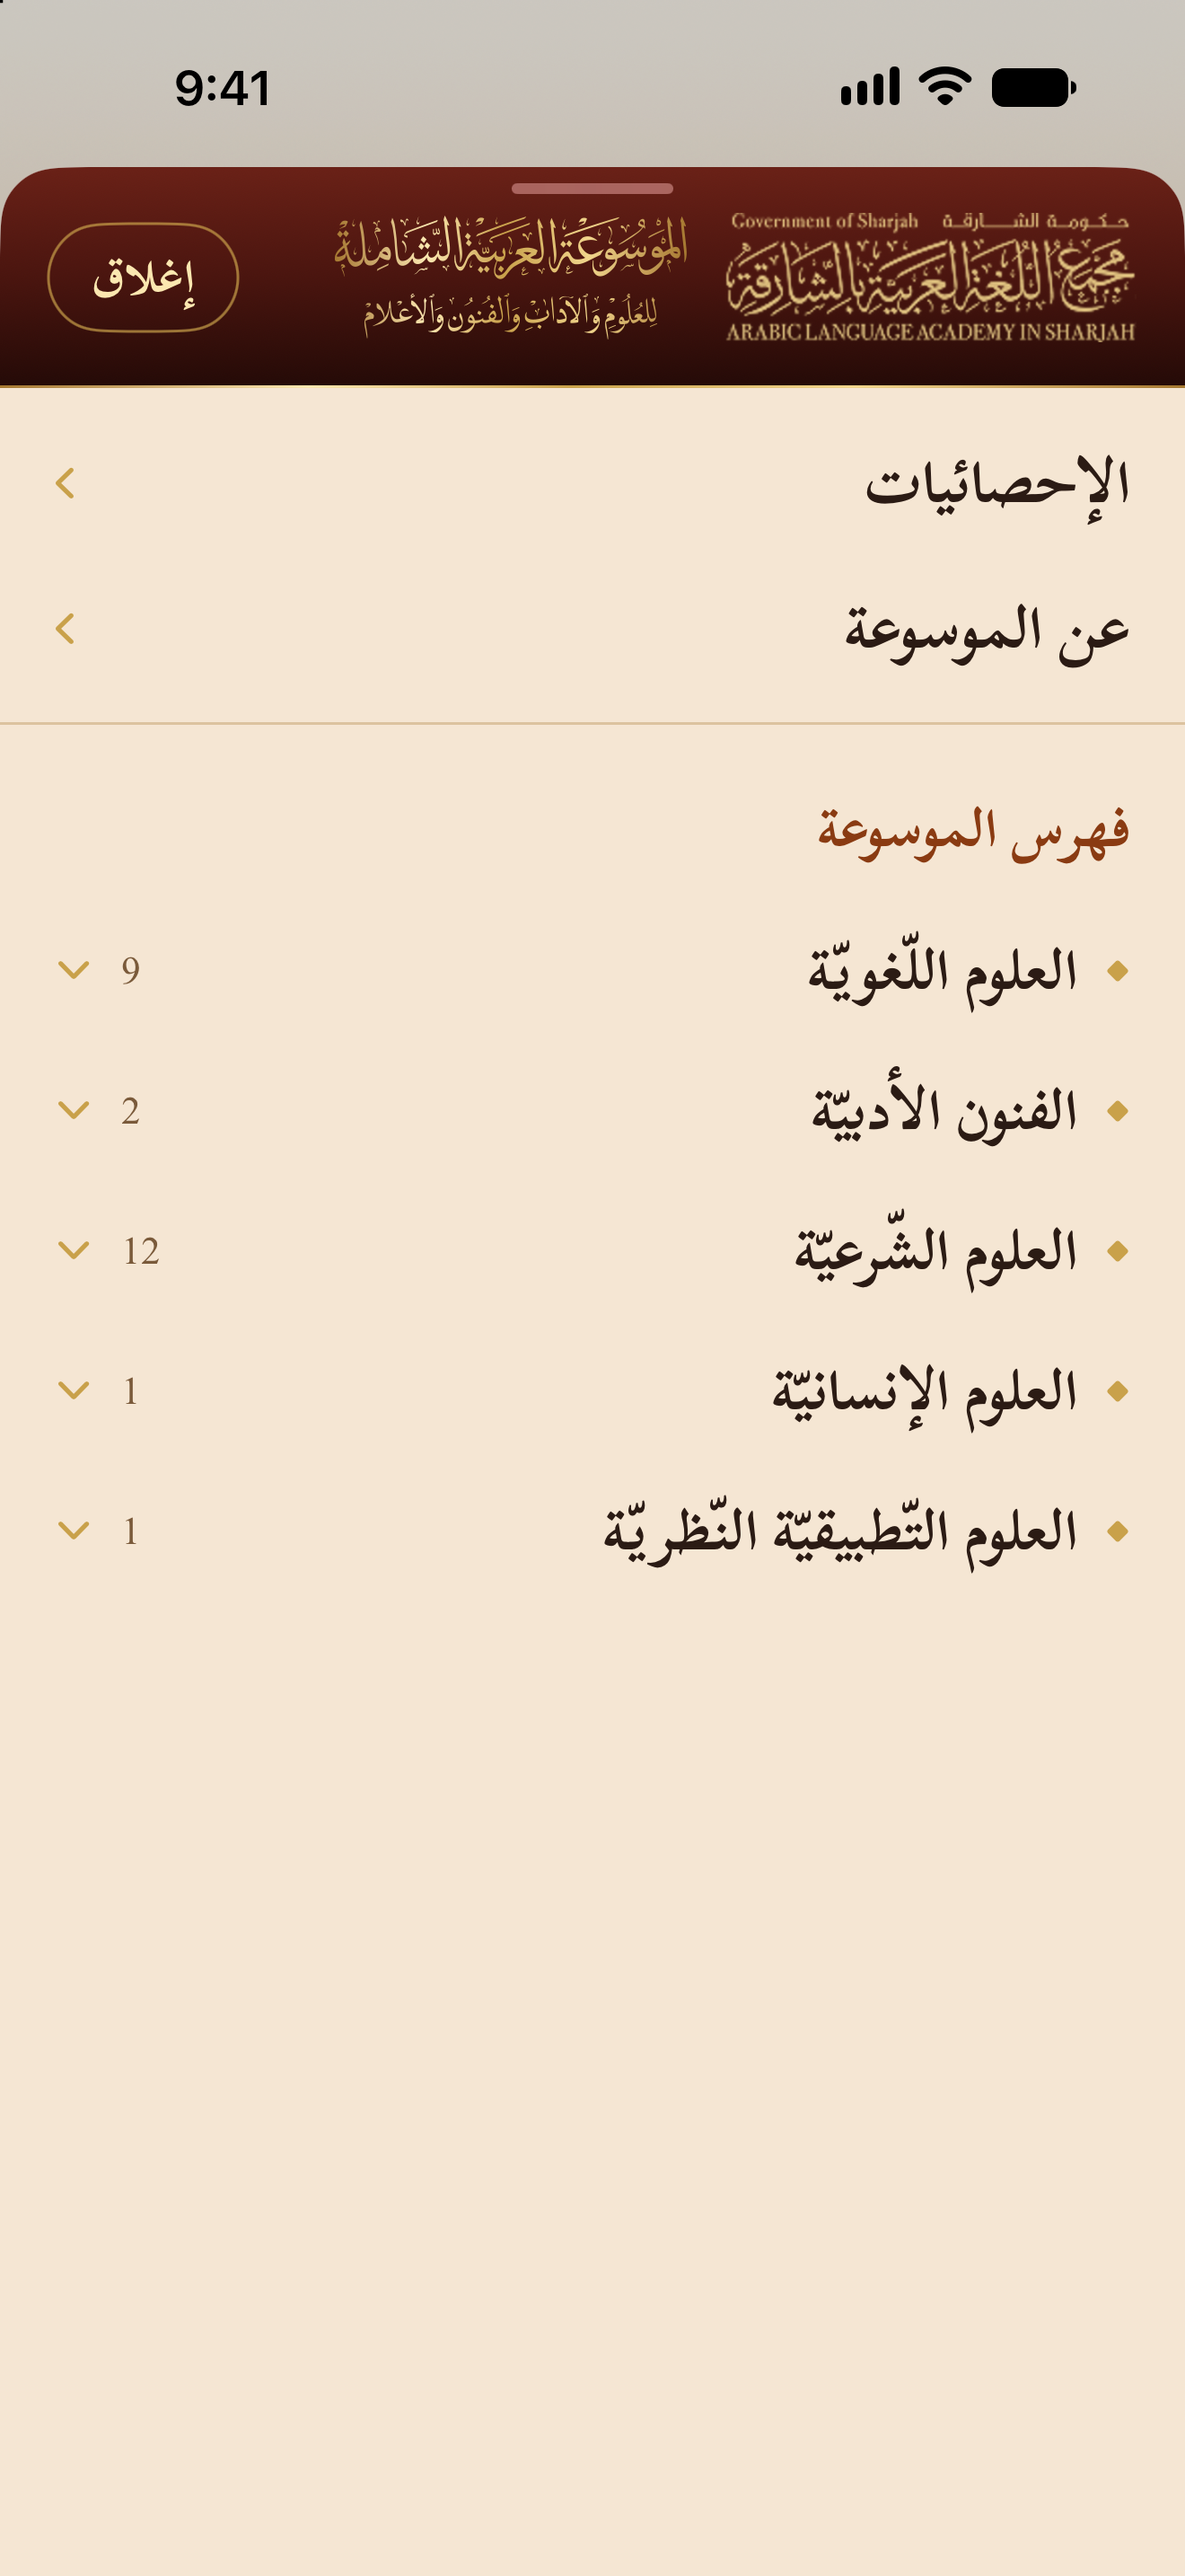
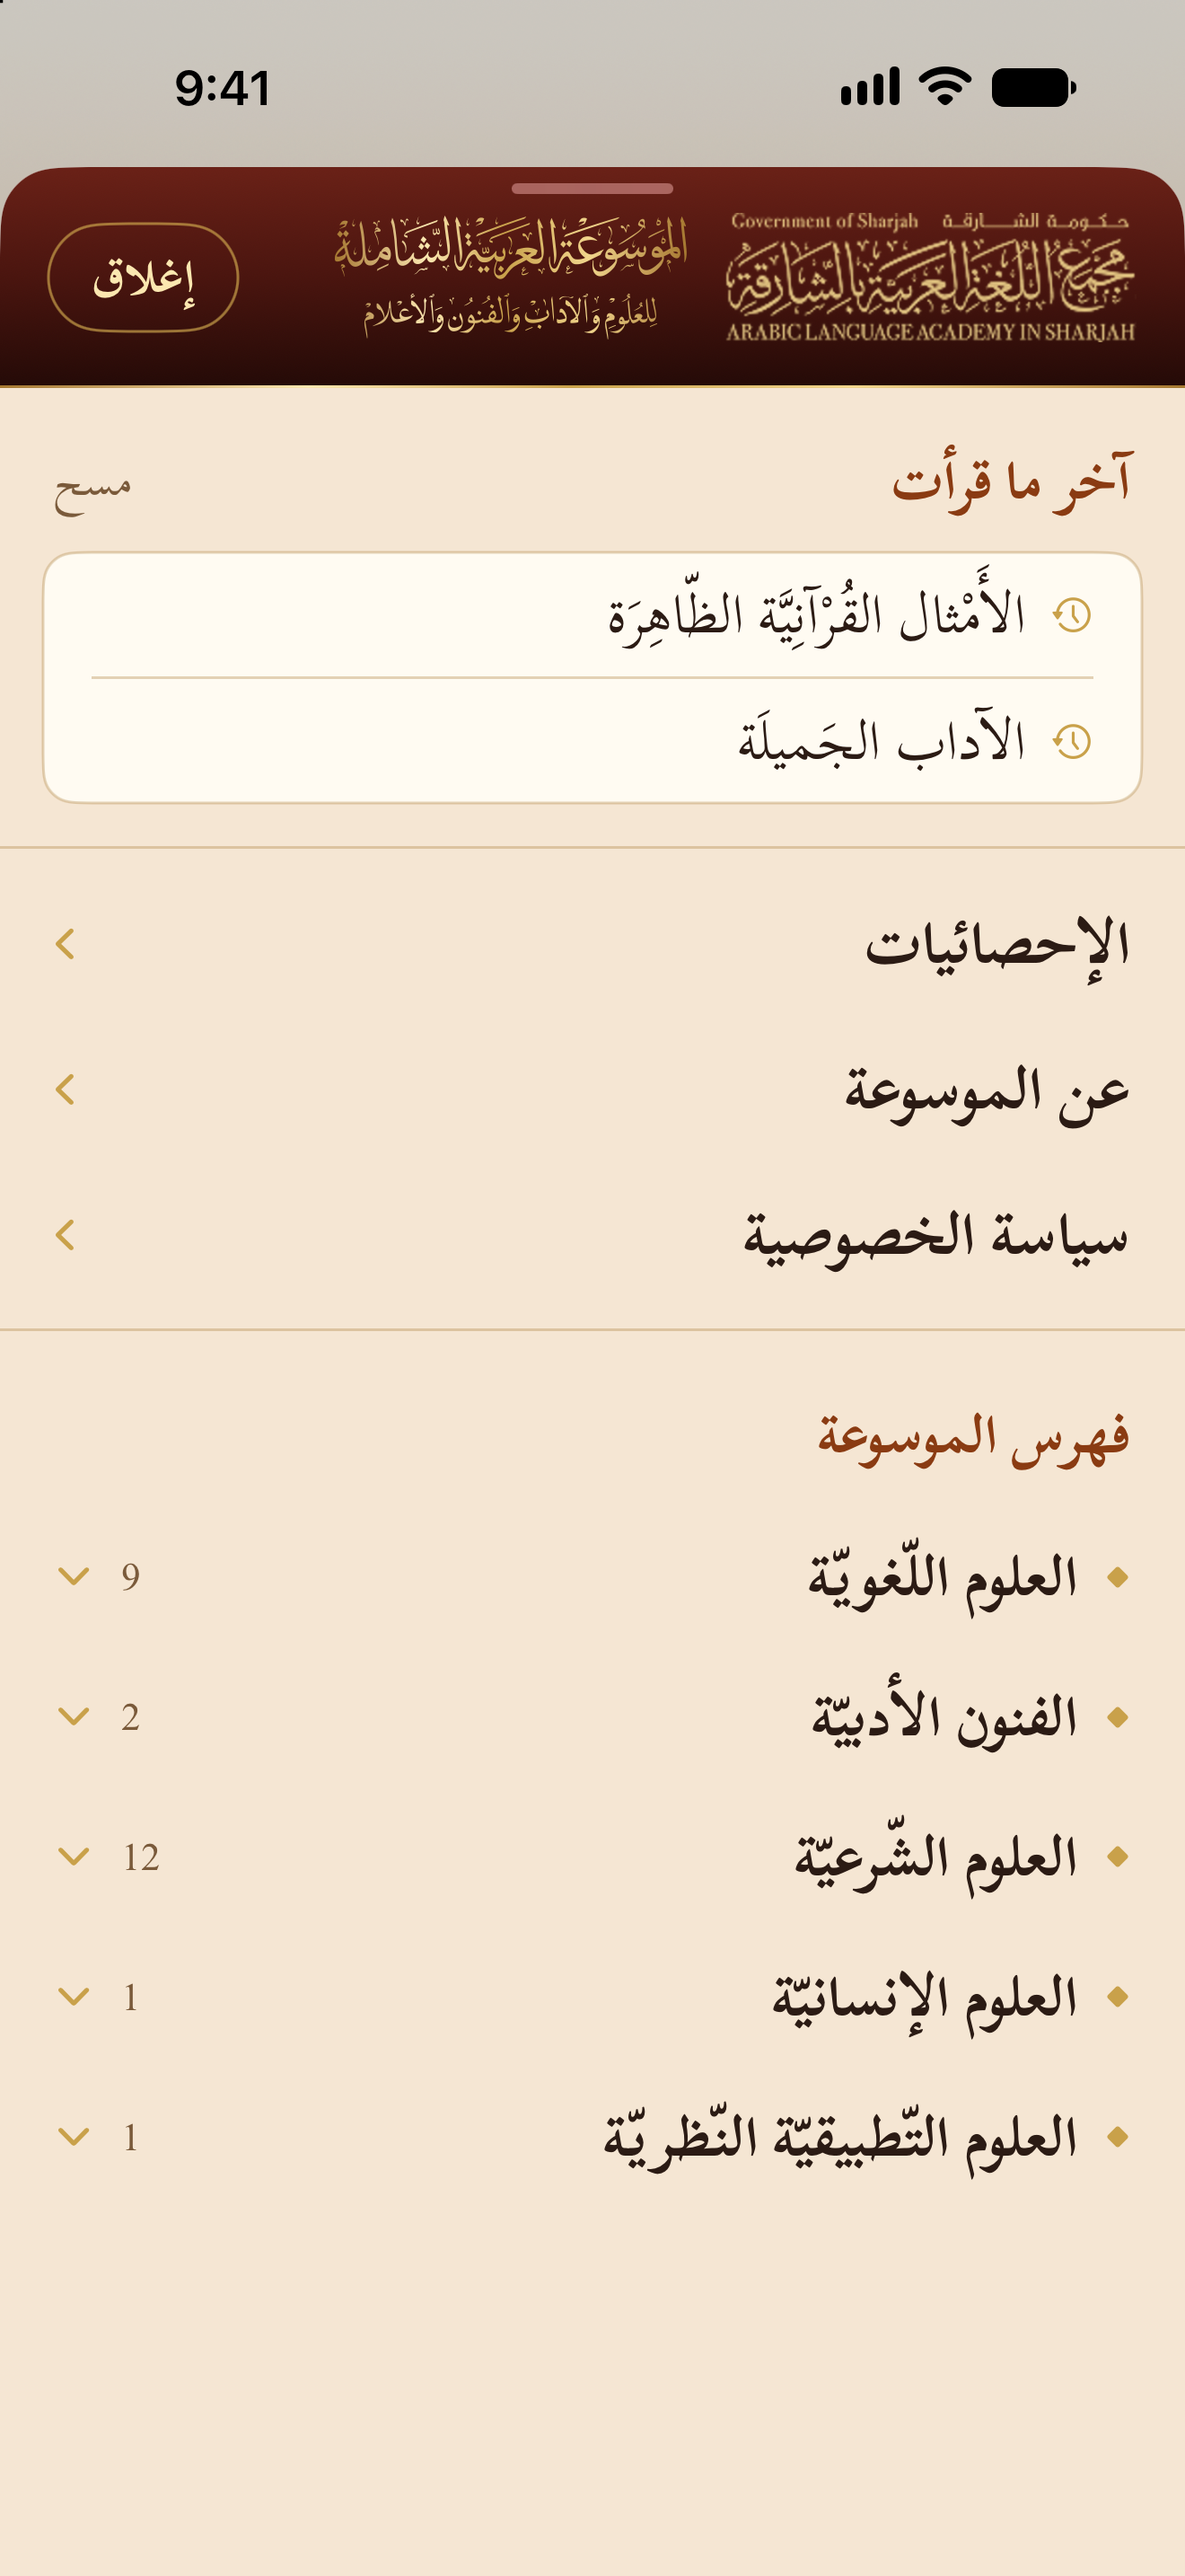
Native share sheet, «آخر ما قرأت» history, privacy policy link in الفهرس
- navigator.share bridged to UIActivityViewController (site's «مشاركة البطاقة»)
- Entries opened are listed in الفهرس (on-device only, clearable)
- «سياسة الخصوصية» reachable in the app (guideline 5.1.1)

diff --git a/mawsoaa-mobile-app-ios/App/IndexSheet.swift b/mawsoaa-mobile-app-ios/App/IndexSheet.swift
@@ -7,12 +7,14 @@ struct IndexSheet: View {
     @Environment(\.dismiss) private var dismiss
     @State private var model = IndexModel()
     @State private var expanded: Set<Int> = []
+    @State private var history = ReadingHistory.shared
 
     var body: some View {
         VStack(spacing: 0) {
             header
             ScrollView {
                 VStack(alignment: .leading, spacing: 0) {
+                    recentlyRead
                     quickLinks
                     Rectangle().fill(Brand.line).frame(height: 1).padding(.vertical, 8)
                     Text("فهرس الموسوعة")
@@ -66,8 +68,56 @@ struct IndexSheet: View {
         VStack(spacing: 0) {
             linkRow("الإحصائيات", path: "/statistics")
             linkRow("عن الموسوعة", path: "/about")
+            linkRow("سياسة الخصوصية", path: "/privacy-policy")
         }
         .padding(.top, 8)
+    }
+
+    /// «آخر ما قرأت»: the last entries opened, stored on this phone only.
+    @ViewBuilder private var recentlyRead: some View {
+        let items = Array(history.items.prefix(5))
+        if !items.isEmpty {
+            VStack(alignment: .leading, spacing: 0) {
+                HStack {
+                    Text("آخر ما قرأت")
+                        .font(.custom("ScheherazadeNew-Bold", size: 20, relativeTo: .headline))
+                        .foregroundStyle(Brand.sepia)
+                    Spacer()
+                    Button("مسح") { withAnimation { history.clear() } }
+                        .font(.custom("ScheherazadeNew-Regular", size: 16, relativeTo: .footnote))
+                        .foregroundStyle(Brand.muted)
+                        .accessibilityLabel("مسح سجلّ القراءة")
+                }
+                .padding(.horizontal, 20).padding(.top, 14).padding(.bottom, 6)
+
+                VStack(spacing: 0) {
+                    ForEach(items) { item in
+                        Button { go(item.path) } label: {
+                            HStack(spacing: 10) {
+                                Image(systemName: "clock.arrow.circlepath")
+                                    .font(.footnote).foregroundStyle(Brand.gold)
+                                Text(item.title)
+                                    .font(.custom("ScheherazadeNew-Regular", size: 20, relativeTo: .body))
+                                    .foregroundStyle(Brand.ink)
+                                    .lineLimit(1)
+                                Spacer()
+                            }
+                            .padding(.horizontal, 18).frame(minHeight: 46)
+                            .contentShape(Rectangle())
+                        }
+                        .buttonStyle(.plain)
+                        if item.id != items.last?.id {
+                            Rectangle().fill(Brand.line).frame(height: 1).padding(.horizontal, 18)
+                        }
+                    }
+                }
+                .background(RoundedRectangle(cornerRadius: 12).fill(Brand.vellum))
+                .overlay(RoundedRectangle(cornerRadius: 12).stroke(Brand.line, lineWidth: 1))
+                .padding(.horizontal, 16)
+
+                Rectangle().fill(Brand.line).frame(height: 1).padding(.top, 16)
+            }
+        }
     }
 
     private func linkRow(_ title: String, path: String) -> some View {

diff --git a/mawsoaa-mobile-app-ios/App/WebShellView.swift b/mawsoaa-mobile-app-ios/App/WebShellView.swift
@@ -107,6 +107,9 @@ final class WebController: NSObject {
         config.defaultWebpagePreferences.allowsContentJavaScript = true
         config.userContentController.addUserScript(
             WKUserScript(source: Site.injectedJS, injectionTime: .atDocumentStart, forMainFrameOnly: true))
+        let bridge = ScriptBridge(self)
+        config.userContentController.add(bridge, name: "share")
+        config.userContentController.add(bridge, name: "visit")
 
         let web = WKWebView(frame: .zero, configuration: config)
         web.navigationDelegate = self
@@ -175,6 +178,34 @@ final class WebController: NSObject {
     @objc private func pullToRefresh(_ sender: UIRefreshControl) {
         retry()
         DispatchQueue.main.asyncAfter(deadline: .now() + 0.6) { sender.endRefreshing() }
+    }
+
+    /// Messages from the page: native share sheet, and entries read (for «آخر ما قرأت»).
+    fileprivate func handle(_ message: WKScriptMessage) {
+        guard let body = message.body as? [String: Any] else { return }
+        switch message.name {
+        case "share":
+            let urlString = body["url"] as? String ?? webView.url?.absoluteString ?? Site.home.absoluteString
+            let title = (body["title"] as? String ?? "").trimmingCharacters(in: .whitespacesAndNewlines)
+            var items: [Any] = []
+            if !title.isEmpty { items.append(title) }
+            items.append(URL(string: urlString) ?? Site.home)
+            presentShareSheet(items)
+        case "visit":
+            if let path = body["path"] as? String, let title = body["title"] as? String {
+                ReadingHistory.shared.record(path: path, title: title)
+            }
+        default: break
+        }
+    }
+
+    private func presentShareSheet(_ items: [Any]) {
+        guard let root = UIApplication.shared.connectedScenes.compactMap({ ($0 as? UIWindowScene)?.keyWindow }).first?.rootViewController else { return }
+        var top = root
+        while let p = top.presentedViewController { top = p }
+        let sheet = UIActivityViewController(activityItems: items, applicationActivities: nil)
+        sheet.popoverPresentationController?.sourceView = top.view
+        top.present(sheet, animated: true)
     }
 
     fileprivate func show(_ error: Error) {
@@ -286,6 +317,15 @@ extension WebController: WKUIDelegate {
         let alert = UIAlertController(title: nil, message: message, preferredStyle: .alert)
         for (title, style, handler) in actions { alert.addAction(UIAlertAction(title: title, style: style) { _ in handler() }) }
         top.present(alert, animated: true)
+    }
+}
+
+/// Weak bridge so the web view's script handlers don't keep the controller alive.
+final class ScriptBridge: NSObject, WKScriptMessageHandler {
+    private weak var controller: WebController?
+    init(_ controller: WebController) { self.controller = controller }
+    func userContentController(_ ucc: WKUserContentController, didReceive message: WKScriptMessage) {
+        controller?.handle(message)
     }
 }
 

diff --git a/mawsoaa-mobile-app-ios/App/Site.swift b/mawsoaa-mobile-app-ios/App/Site.swift
@@ -63,6 +63,39 @@ enum Site {
       }
       add();
       document.addEventListener('DOMContentLoaded', add);
+
+      // Native iOS share sheet for the site's «مشاركة البطاقة» (it calls navigator.share when present).
+      try {
+        var nativeShare = function (d) {
+          d = d || {};
+          window.webkit.messageHandlers.share.postMessage({ title: d.title || document.title || '', text: d.text || '', url: d.url || location.href });
+          return Promise.resolve();
+        };
+        Object.defineProperty(navigator, 'share', { value: nativeShare, configurable: true });
+        Object.defineProperty(navigator, 'canShare', { value: function () { return true; }, configurable: true });
+      } catch (e) {}
+
+      // «آخر ما قرأت»: report each entry page opened (term / biography), with its title, to the app.
+      var lastSent = '';
+      function reportVisit() {
+        var path = location.pathname;
+        if (!(path.indexOf('/term/') === 0 || path.indexOf('/biography/') === 0) || path === lastSent) return;
+        var tries = 0;
+        (function wait() {
+          var h = document.querySelector('h1.hero-title, .term-page h1, main h1');
+          var title = h && h.innerText.trim();
+          if (title) {
+            lastSent = path;
+            try { window.webkit.messageHandlers.visit.postMessage({ path: path, title: title }); } catch (e) {}
+          } else if (tries++ < 20) { setTimeout(wait, 300); }
+        })();
+      }
+      ['pushState', 'replaceState'].forEach(function (m) {
+        var orig = history[m];
+        history[m] = function () { var r = orig.apply(this, arguments); setTimeout(reportVisit, 50); return r; };
+      });
+      window.addEventListener('popstate', function () { setTimeout(reportVisit, 50); });
+      window.addEventListener('load', reportVisit);
       // Hide save buttons that some pages render only for signed-in readers, should one appear.
       new MutationObserver(function () {
         add();

diff --git a/mawsoaa-mobile-app-ios/App/ReadingHistory.swift b/mawsoaa-mobile-app-ios/App/ReadingHistory.swift
@@ -1,0 +1,44 @@
+import Foundation
+import Observation
+
+/// «آخر ما قرأت»: the last entries the reader opened, kept only on this phone (UserDefaults). No account, nothing sent anywhere.
+@Observable
+final class ReadingHistory {
+    static let shared = ReadingHistory()
+
+    struct Item: Codable, Identifiable, Hashable {
+        let path: String
+        let title: String
+        let date: Date
+        var id: String { path }
+    }
+
+    private(set) var items: [Item] = []
+    private let key = "readingHistory.v1"
+    private let limit = 20
+
+    private init() {
+        if let data = UserDefaults.standard.data(forKey: key),
+           let saved = try? JSONDecoder().decode([Item].self, from: data) {
+            items = saved
+        }
+    }
+
+    func record(path: String, title: String) {
+        let clean = title.replacingOccurrences(of: "\u{200B}", with: "").trimmingCharacters(in: .whitespacesAndNewlines)
+        guard !clean.isEmpty else { return }
+        items.removeAll { $0.path == path }
+        items.insert(Item(path: path, title: clean, date: .now), at: 0)
+        if items.count > limit { items.removeLast(items.count - limit) }
+        save()
+    }
+
+    func clear() {
+        items = []
+        save()
+    }
+
+    private func save() {
+        if let data = try? JSONEncoder().encode(items) { UserDefaults.standard.set(data, forKey: key) }
+    }
+}

diff --git a/AppStore/STORE_LISTING.md b/AppStore/STORE_LISTING.md
@@ -54,7 +54,9 @@ App Store "Promotional text" (up to 170 characters, can be changed anytime witho
 > • تصفية نتائج البحث بحسب العلم، والبحث داخل علم بعينه، والتصفح بحسب الحروف الهجائية.
 > • التعريف بكل علم: نشأته وموضوعه ومصادره.
 > • إحصائيات محدّثة لما نُشر من مصطلحات في كل قسم ومجال وعلم.
-> • مشاركة البطاقات العلمية مع الآخرين بسهولة.
+> • مشاركة البطاقات العلمية مع الآخرين بسهولة عبر قائمة المشاركة في iOS.
+> • «آخر ما قرأت»: الرجوع بسرعة إلى آخر المصطلحات التي قرأتها، محفوظة على جهازك فقط.
+> • فهرس شامل للأقسام والمجالات والعلوم في متناول يدك.
 > • واجهة عربية بالكامل، مصمّمة بروح المخطوط العربي.
 >
 > **لمن هذا التطبيق؟**
@@ -82,7 +84,9 @@ App Store "Promotional text" (up to 170 characters, can be changed anytime witho
 > • Filter results by discipline, search within a single discipline, or browse alphabetically.
 > • Read an introduction to each discipline: its origins, subject and sources.
 > • See up-to-date statistics of the terms published in every section, field and discipline.
-> • Share any entry with others.
+> • Share any entry through the iOS share sheet.
+> • "Recently read": jump back to the entries you opened last, kept on your device only.
+> • A complete index of sections, fields and disciplines, always one tap away.
 > • A fully Arabic interface inspired by the Arabic manuscript tradition.
 >
 > **Who is it for?**
@@ -162,7 +166,7 @@ The app's own code collects nothing. The website it displays uses **Google Analy
 
 > This is the official app of the Comprehensive Arabic Encyclopedia (الموسوعة العربية الشاملة), a project of the Arabic Language Academy in Sharjah (UAE), a government cultural institution.
 >
-> The app provides free access to more than 26,000 scholarly Arabic terms with their definitions and sources. No account or login is needed: all content is public. Main sections are in the native bottom bar: Home (browse by section › field › discipline), Search (full-text, diacritics-insensitive, with filters) and Index (الفهرس), a native index of every section, field and discipline, with statistics.
+> The app provides free access to more than 26,000 scholarly Arabic terms with their definitions and sources. No account or login is needed: all content is public. Main sections are in the native bottom bar: Home (browse by section › field › discipline), Search (full-text, diacritics-insensitive, with filters) and Index (الفهرس), a native index of every section, field and discipline, with a "recently read" list (stored on device only), statistics and the privacy policy. Entries can be shared through the native iOS share sheet.
 >
 > External links (the Academy website, other sites) open in an in-app Safari view. The app works in Arabic, right-to-left.
 
@@ -174,6 +178,6 @@ The app's own code collects nothing. The website it displays uses **Google Analy
 2. Discipline page: علوم القرآن with alphabetical filter
 3. Term entry: الأمثال القرآنية الظاهرة
 4. Search results: البلاغة
-5. الفهرس: the index of sections, fields and sciences
+5. الفهرس: recently read, privacy policy, and the index of sections, fields and sciences
 
 Google Play needs 2–8 phone screenshots; these can be reused (Play accepts this ratio).
